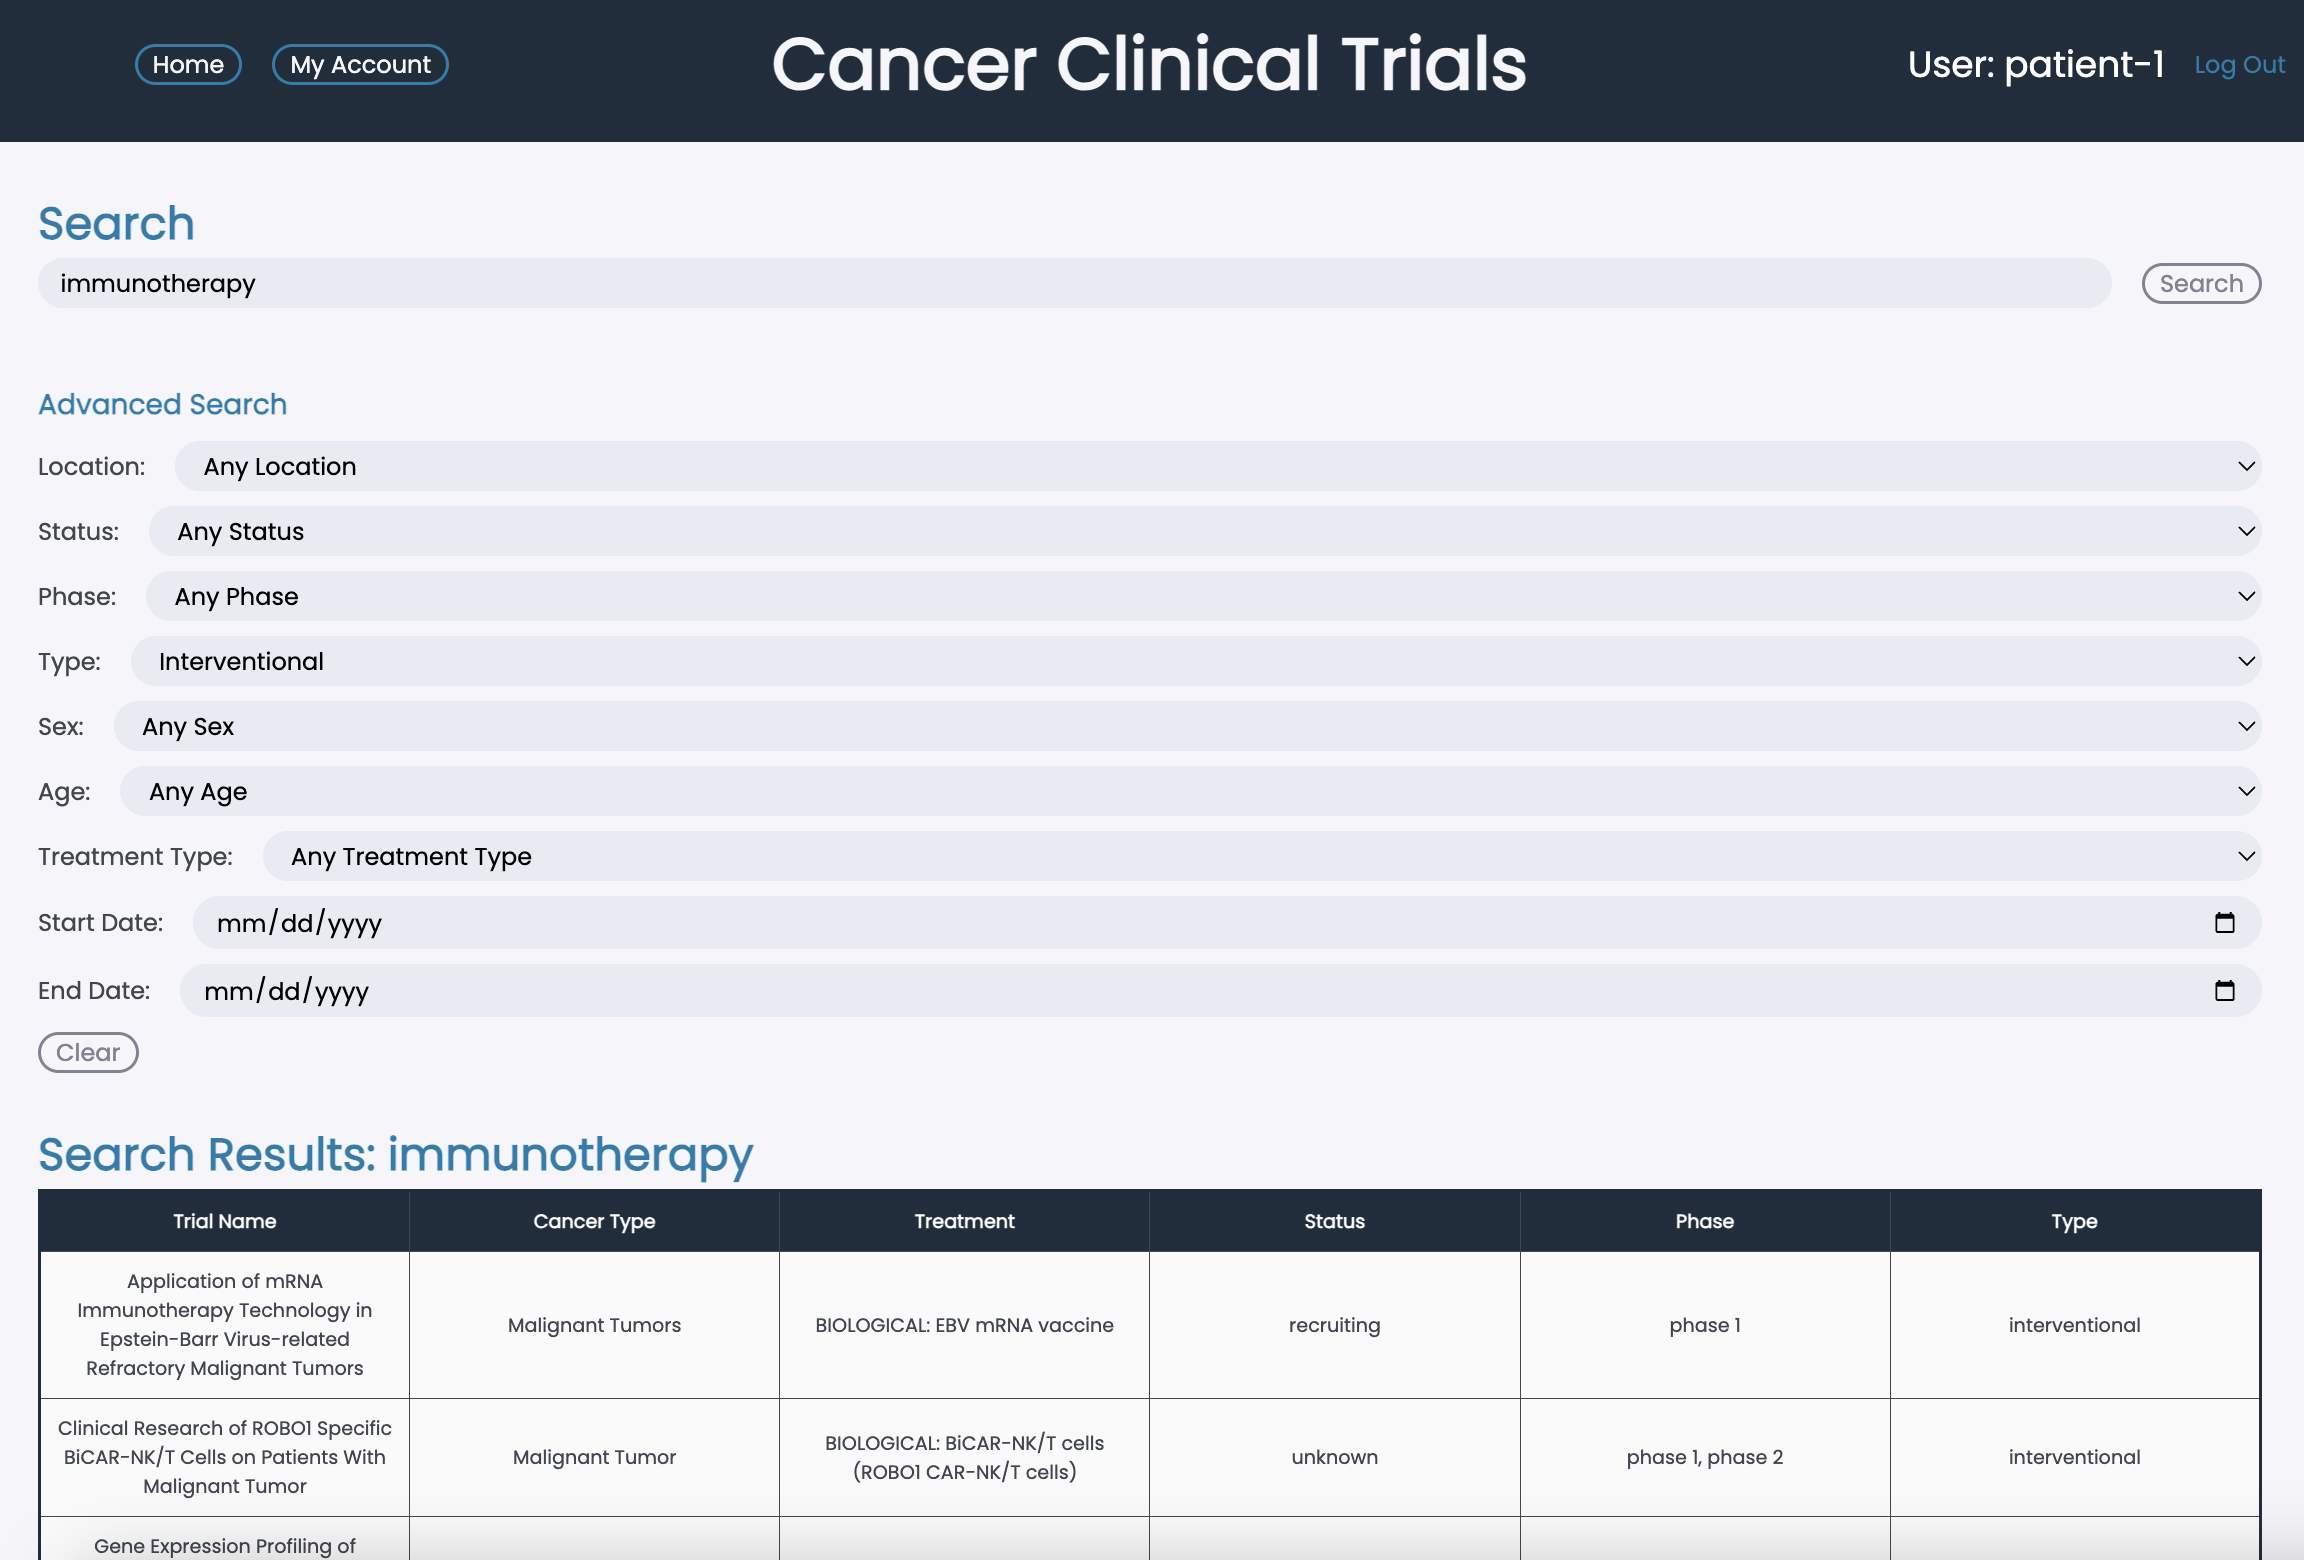
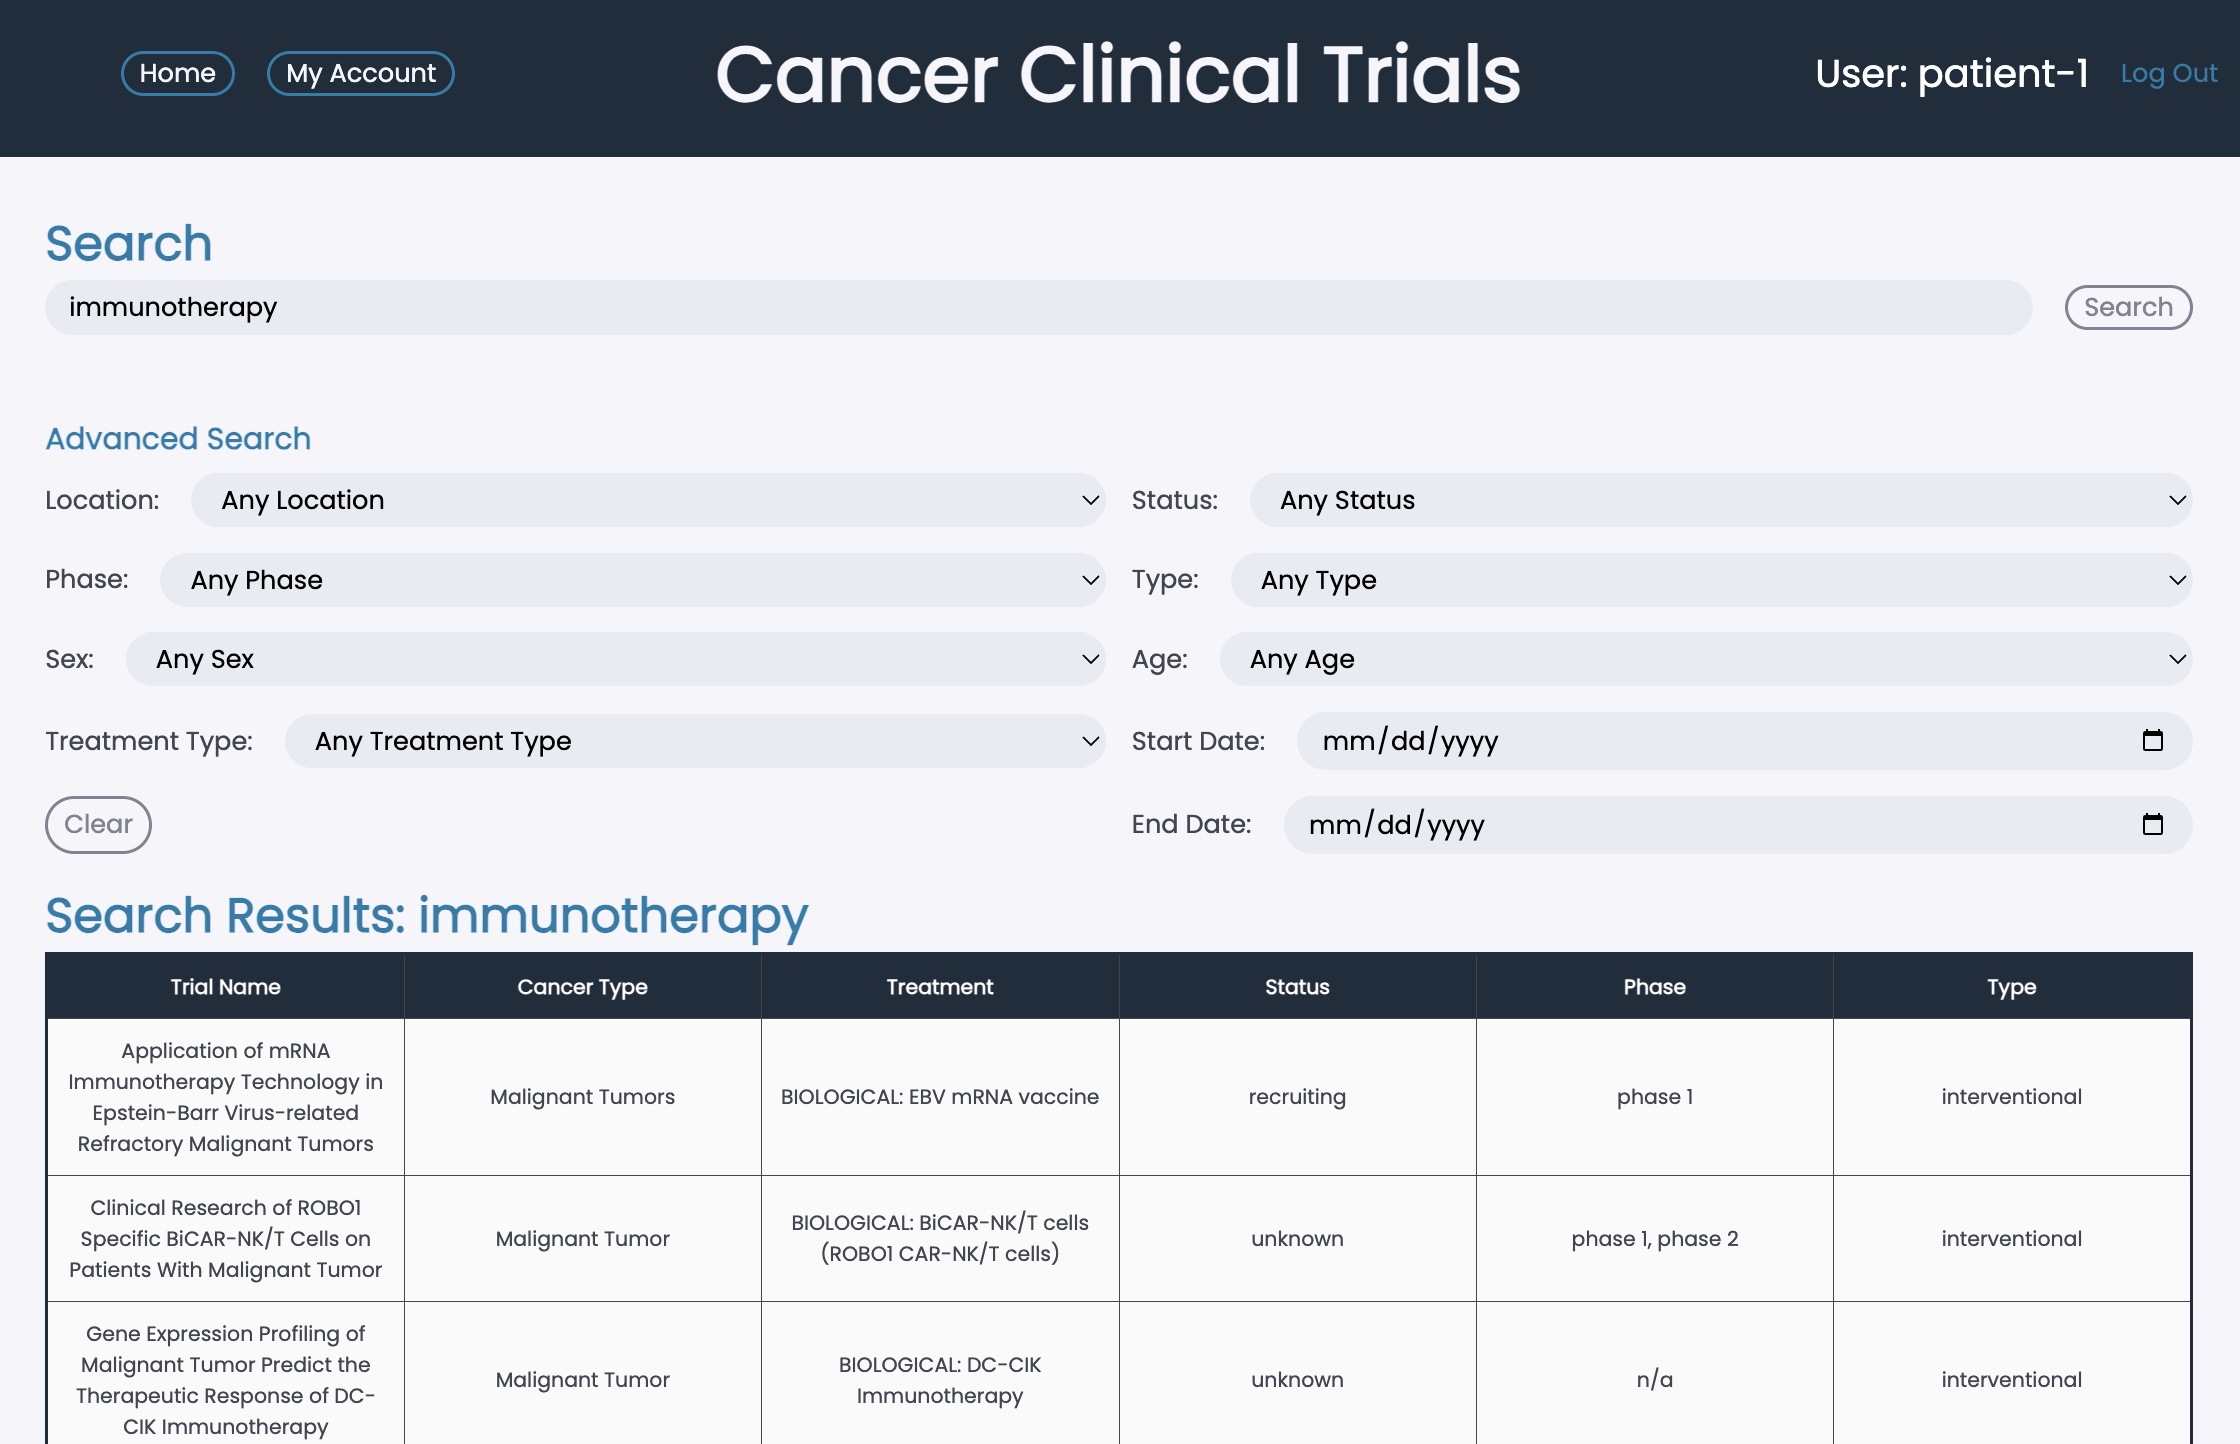
Condense advanced search dropdowns

diff --git a/templates/results.html b/templates/results.html
@@ -11,8 +11,8 @@
     <button type="submit" class="general-btn">Search</button>
   </div>
 
+  <h3>Advanced Search</h3>
   <div class="adv-search">
-    <h3>Advanced Search</h3>
     <div class="filter">
       <label for="location">Location:</label>
       <select id="location" name="location" >
@@ -100,12 +100,12 @@
       <input type="date" id="start_date" name="start_date" {% if start_date is not none %}value="{{start_date}}"{% endif %}>
     </div>
 
+    <button type="button" id=clear-btn class="general-btn">Clear</button>
+
     <div class="filter">
       <label for="end_date">End Date:</label>
       <input type="date" id="end_date" name="end_date" {% if end_date is not none %}value="{{end_date}}"{% endif %}>
     </div>
-
-    <button type="button" id=clear-btn class="general-btn">Clear</button>
   </div>
 </form>
 

diff --git a/static/style.css b/static/style.css
@@ -189,11 +189,19 @@ button {
   background-color: var(--light-background);
 }
 
-.adv-search, .input-container {
+.input-container {
   display: flex;
   flex-direction: column;
   gap: 10px;
   margin-bottom: 2em;
+}
+
+.adv-search {
+  display: grid;
+  grid-template-columns: 1fr 1fr;
+  gap: 1rem;
+  margin-top: 0.5rem;
+  margin-bottom: 1rem;
 }
 
 .filter, .input-field {
